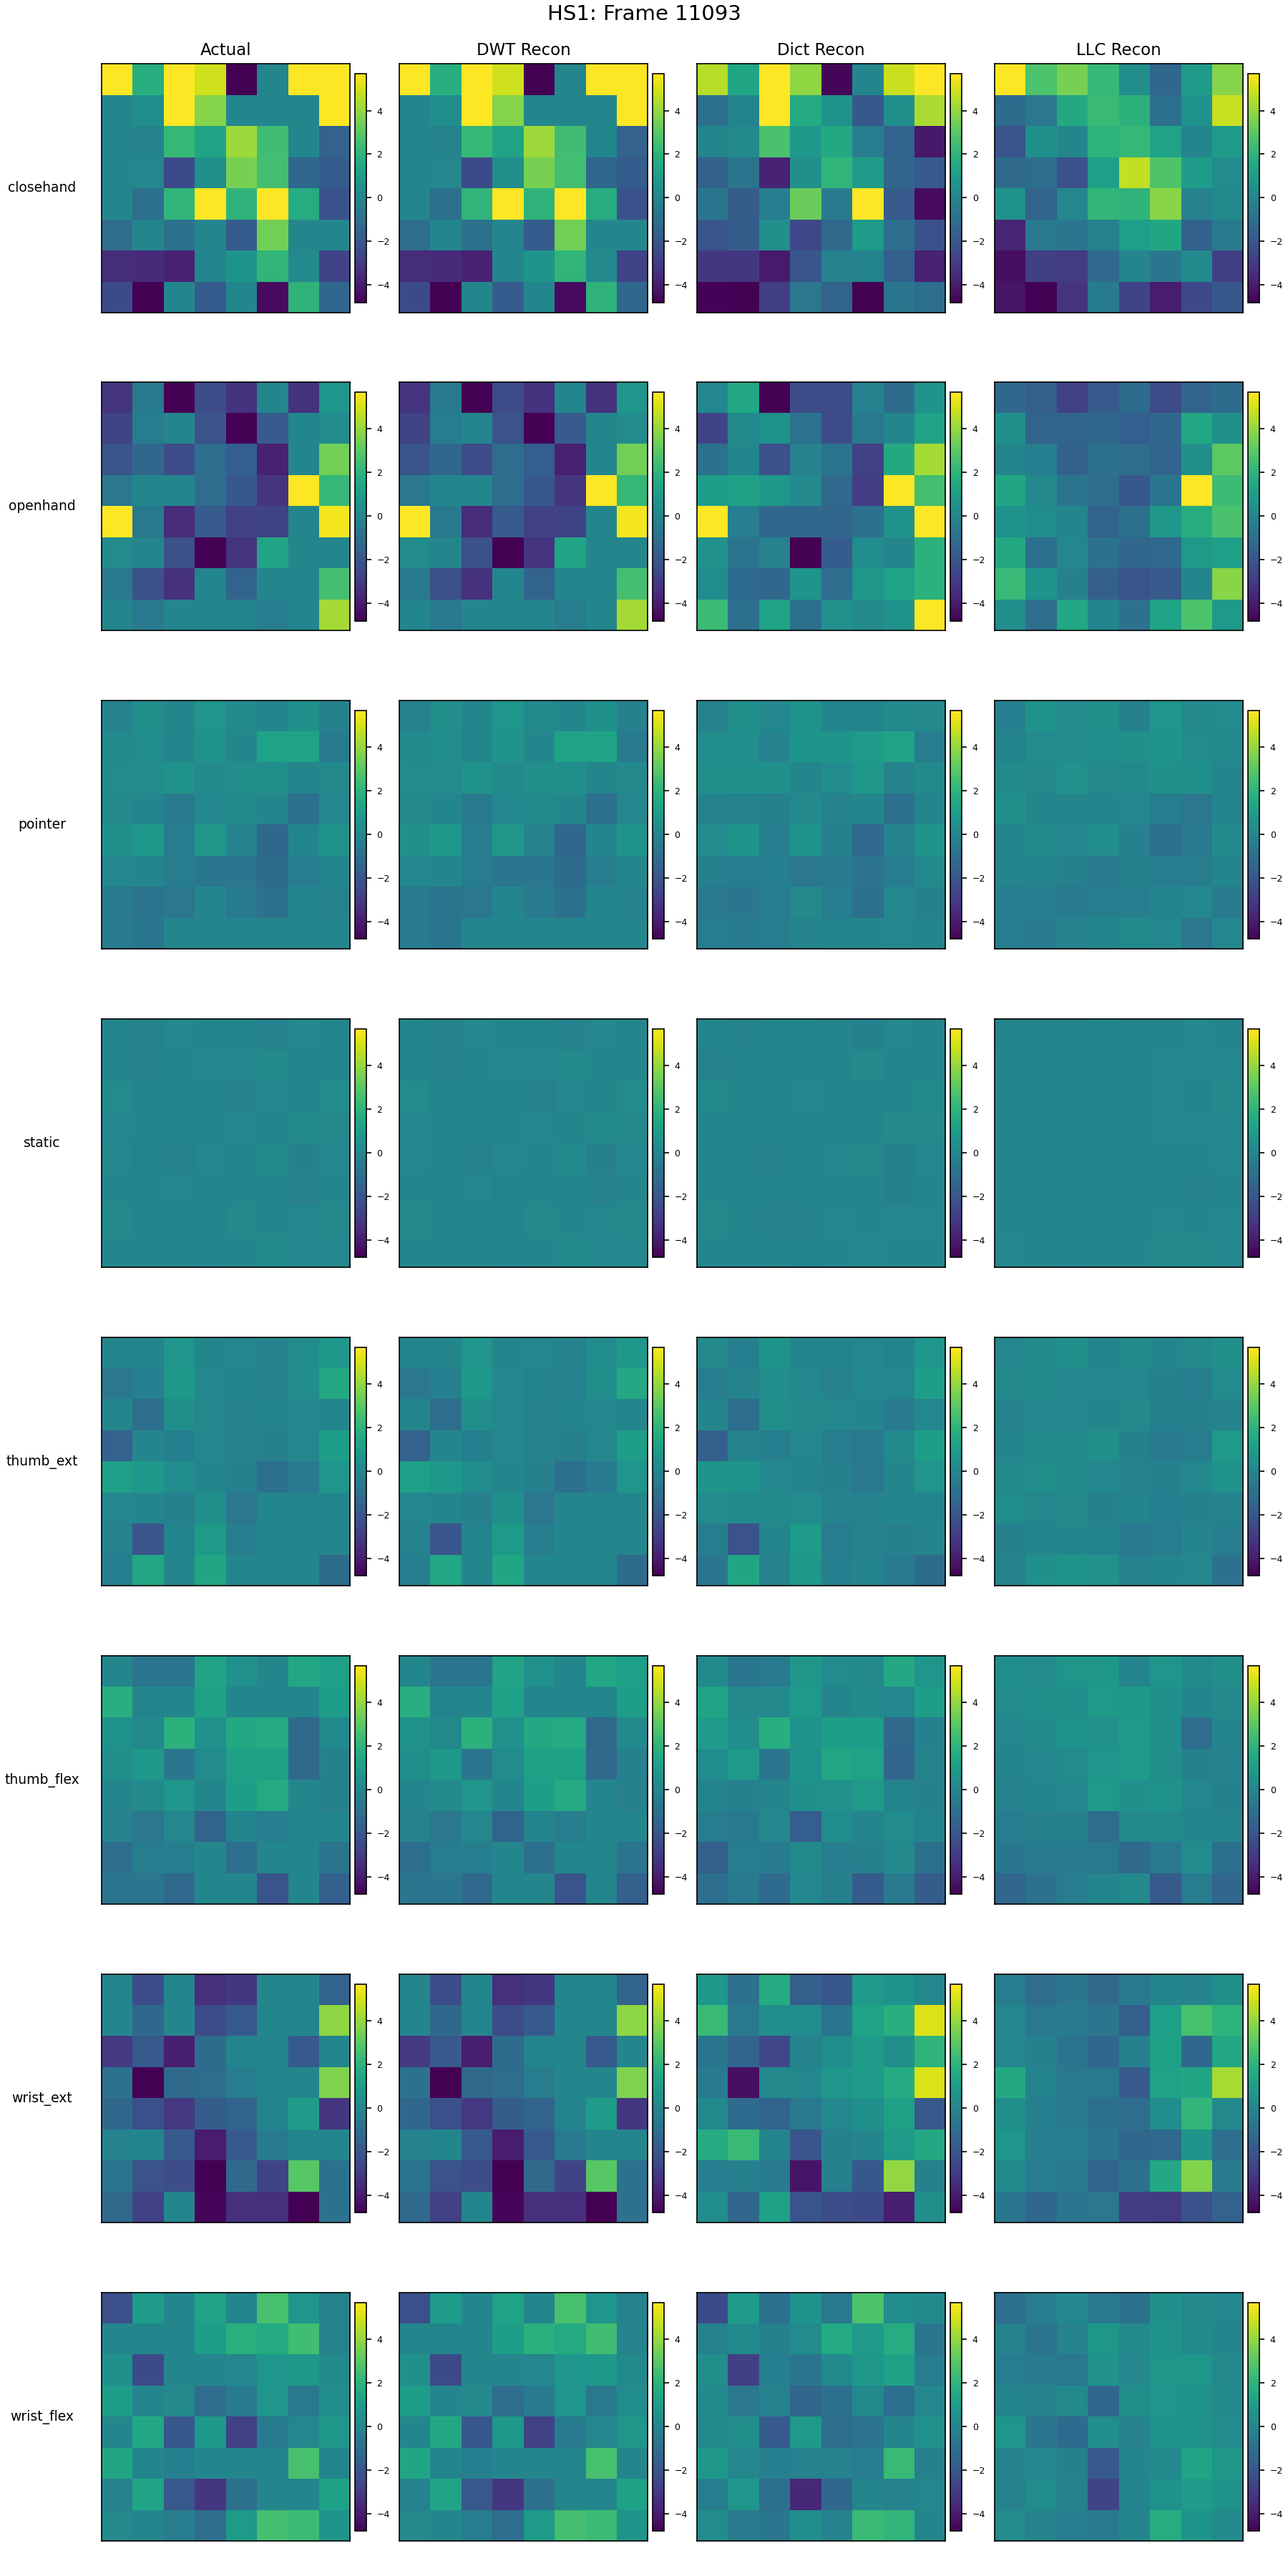
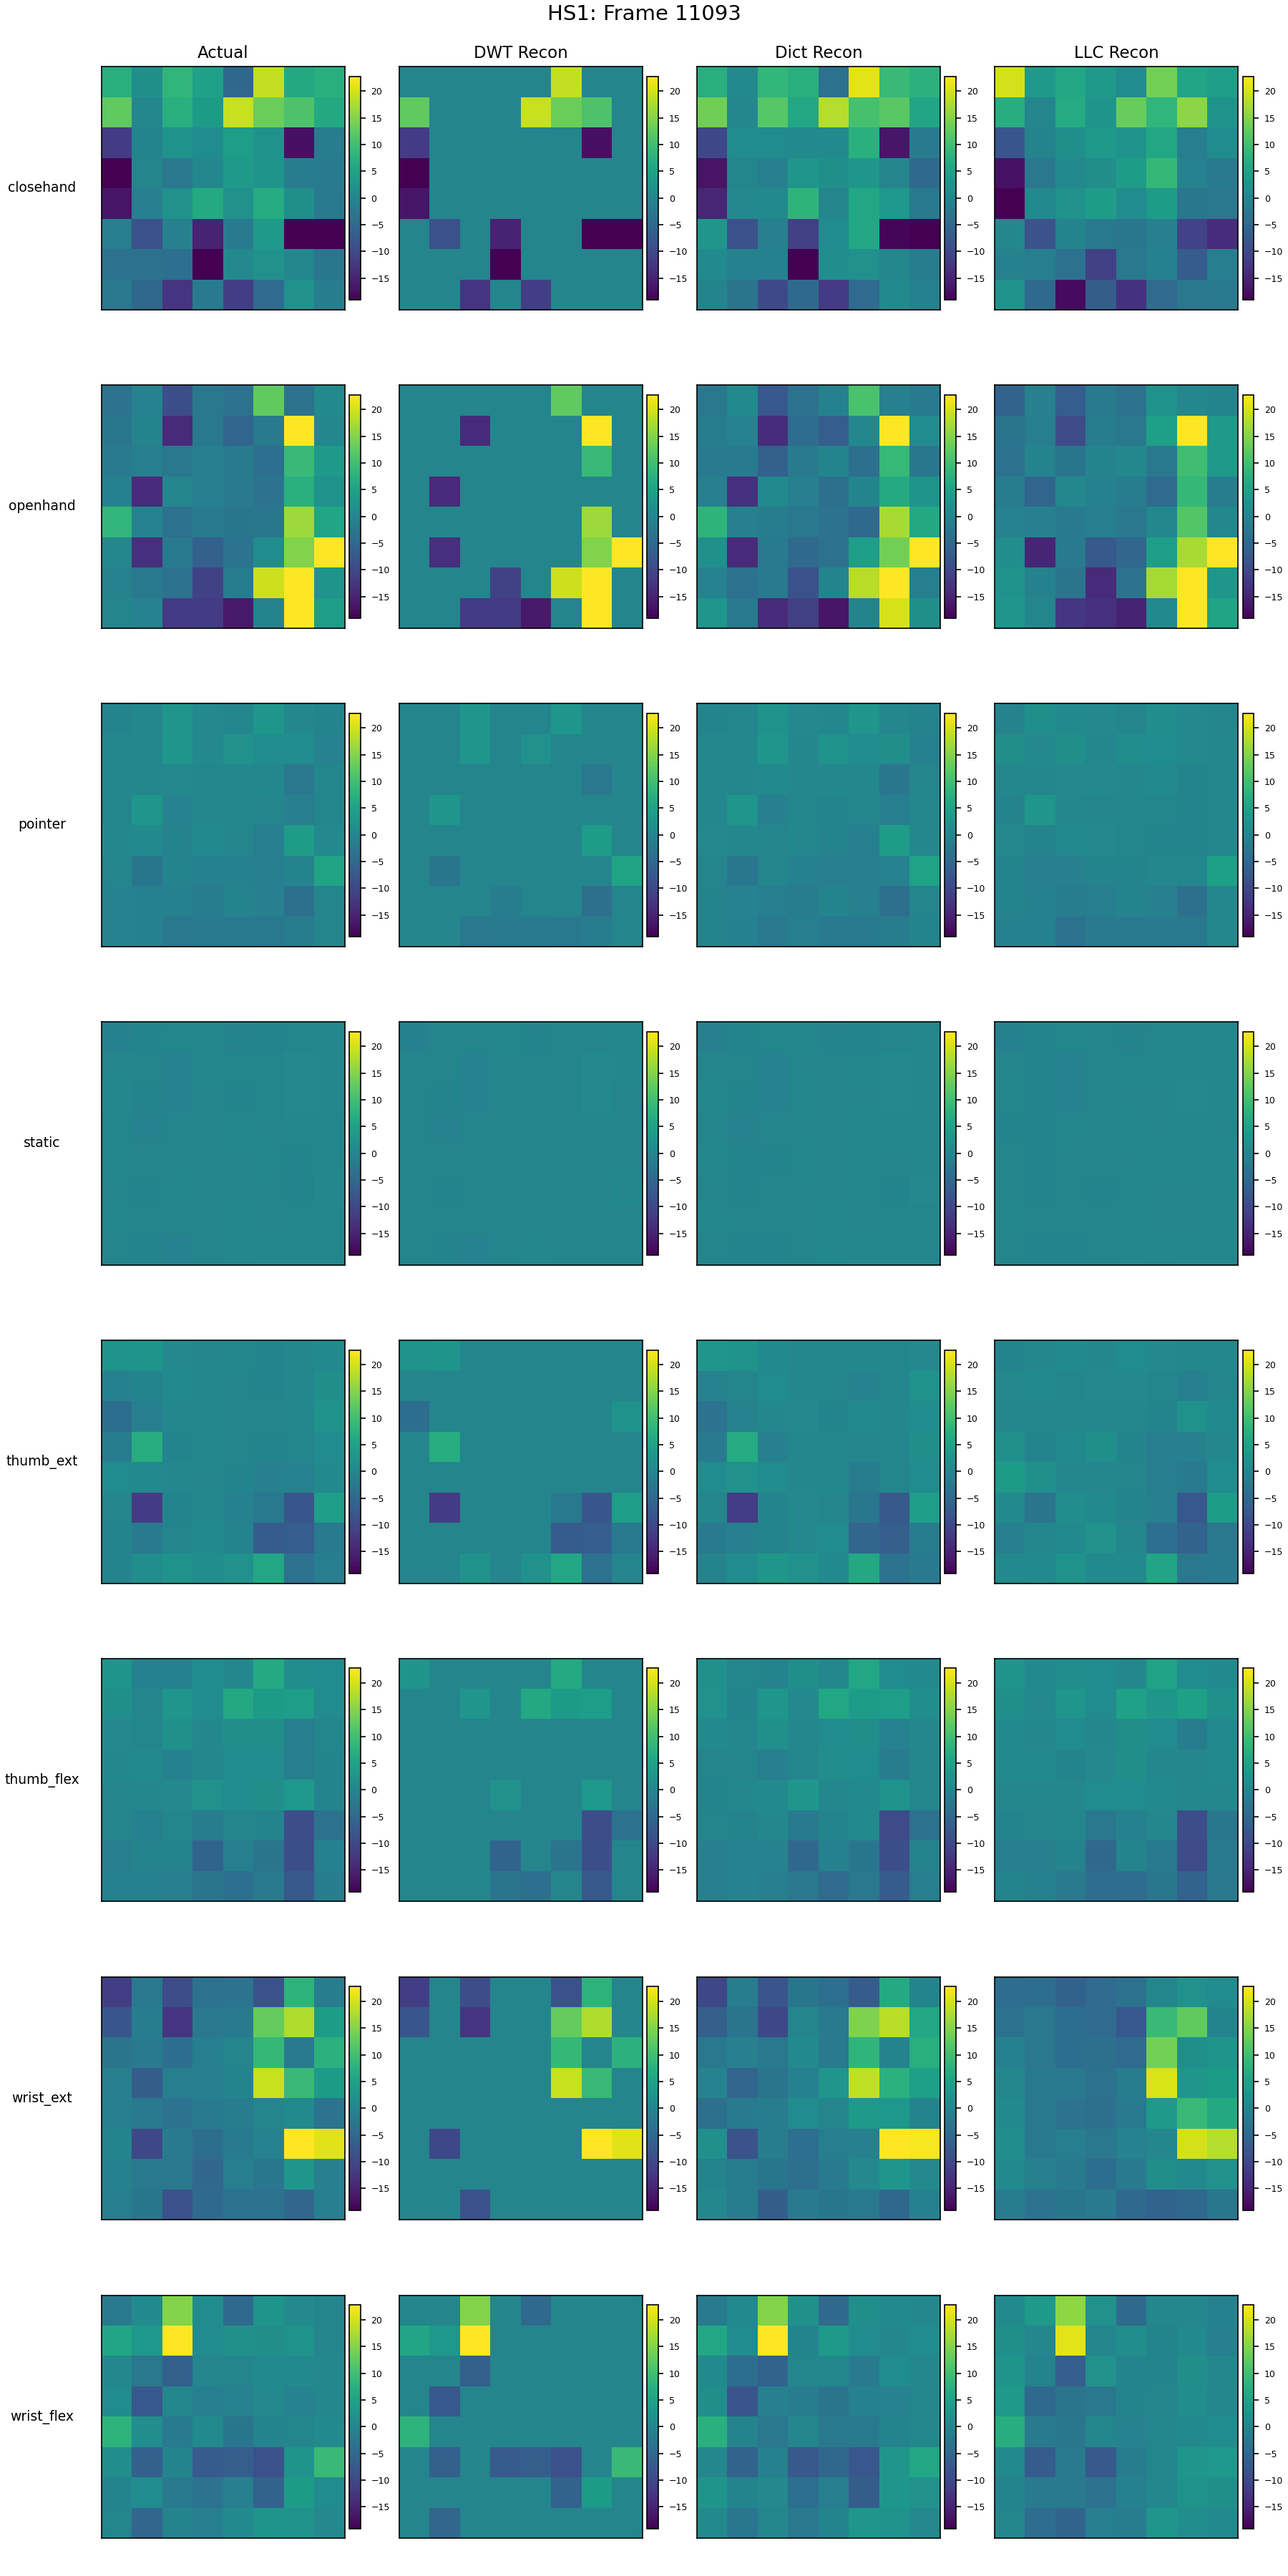
corrected dwt

diff --git a/get_training_data.py b/get_training_data.py
@@ -125,9 +125,11 @@ for subj, gests in windows_1s.items():
                 img = vec.reshape(8, 8)
                 coeffs = pywt.wavedec2(img, wavelet, level=lvl)
                 arr, slices = pywt.coeffs_to_array(coeffs)
-                idxs = np.argsort(np.abs(arr.ravel()))[-SPARSITY:]
-                arr[np.unravel_index(idxs, arr.shape)] = 0
-                rec_dwt = pywt.waverec2(pywt.array_to_coeffs(arr, slices, 'wavedec2'), wavelet)
+                idxs = np.argsort(np.abs(arr.ravel()))[::-1][:SPARSITY]
+                mask = np.zeros(arr.size, bool)
+                mask[idxs] = True
+                arr_filtered = (arr.ravel() * mask).reshape(arr.shape)
+                rec_dwt = pywt.waverec2(pywt.array_to_coeffs(arr_filtered, slices, 'wavedec2'), wavelet)
                 R_dwt[:,t] = rec_dwt.ravel()
                 
                 # Dictionary Reconstruction
